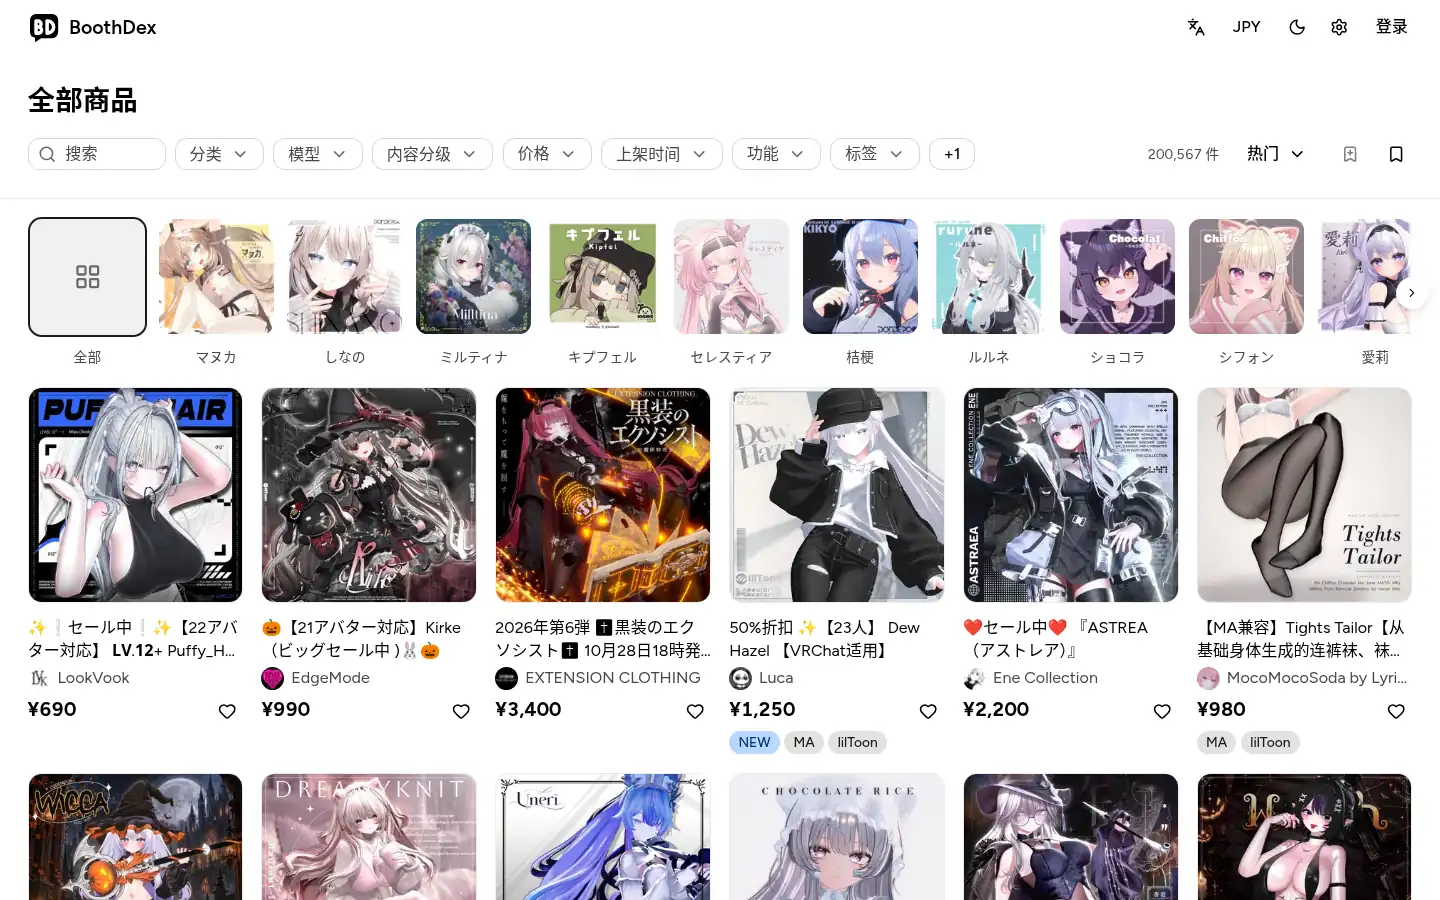
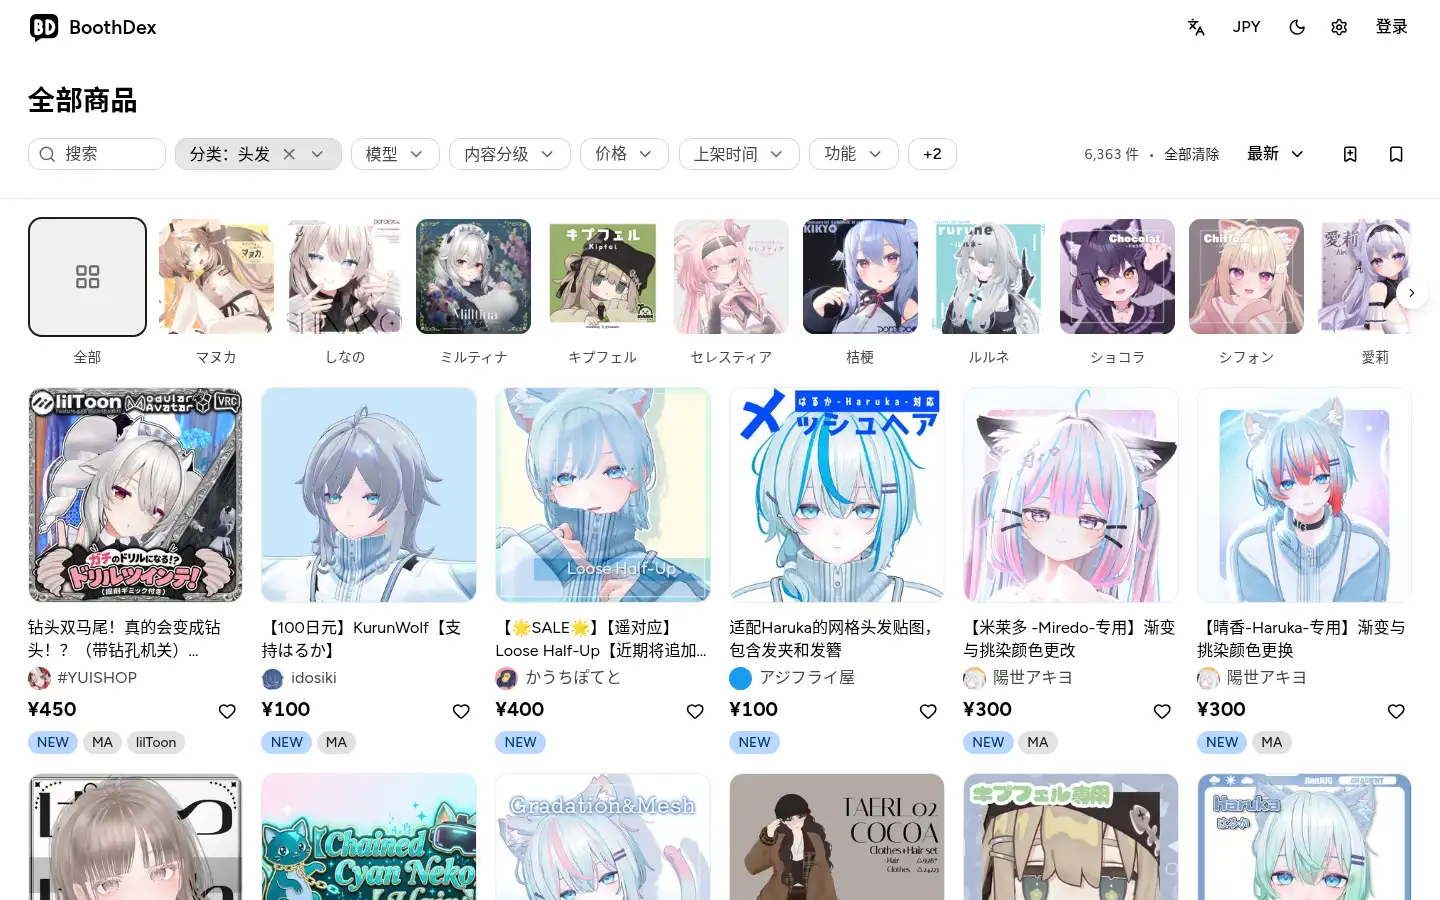
docs: show the hair category in the README hero

diff --git a/README.ja.md b/README.ja.md
@@ -18,7 +18,7 @@
 
 BoothDex は、[BOOTH](https://booth.pm) で販売されている VRChat 向け商品をインデックス化し、対応アバター、カテゴリ、タグ、機能、価格などの条件で高速に絞り込める検索エンジンです。2026-11-01 に閉鎖された VRCatalogue の後継を目指して開発が始まり、互換性のある検索構文を備えています。本プロジェクトは独立したオープンソースプロジェクトであり、pixiv、BOOTH、および VRCatalogue とは一切関係ありません。商品データおよび画像の権利は各制作者に帰属し、すべての商品は BOOTH の販売ページへ直接リンクしています。
 
-![ホーム画面: フィルター行、アバター本体のカルーセル、商品グリッド](docs/screenshots/ja/home.webp)
+![ホーム画面（カテゴリ：髪型）: フィルター行、アバター本体のカルーセル、商品グリッド](docs/screenshots/ja/home.webp)
 
 ## 主な機能
 

diff --git a/README.zh-CN.md b/README.zh-CN.md
@@ -20,7 +20,7 @@ BoothDex 收录 [BOOTH](https://booth.pm) 上出售的 VRChat 商品，支持按
 项目起初作为 VRCatalogue（已于 2026-11-01 关闭）的后继方案开发，保留了兼容的搜索语法。本项目为独立开源项目，与
 pixiv、BOOTH 及 VRCatalogue 均无关联；商品数据与图片归原作者所有，每件商品均直接链接回其 BOOTH 页面。
 
-![首页：筛选栏、模型本体轮播与商品网格](docs/screenshots/zh-CN/home.webp)
+![首页（分类：头发）：筛选栏、模型本体轮播与商品网格](docs/screenshots/zh-CN/home.webp)
 
 ## 功能
 

diff --git a/README.md b/README.md
@@ -22,7 +22,7 @@ they fit, category, tags, features, price and more. It started as a successor to
 2026-11-01) and keeps its search syntax. It is an independent project, not affiliated with pixiv, BOOTH or
 VRCatalogue. Item data and images belong to their creators; every item links back to its BOOTH page.
 
-![The home page: the filter row above a carousel of avatar bodies and the item grid](docs/screenshots/en/home.webp)
+![The home page filtered to the hair category: the filter row above a carousel of avatar bodies and the item grid](docs/screenshots/en/home.webp)
 
 ## Capabilities
 
